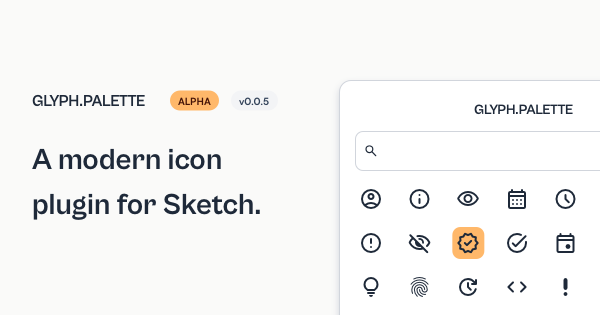
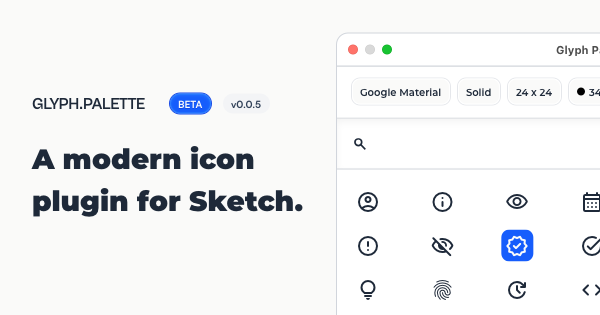
Updating Opengraph assets. Adding button in header. Sorting responsive styles.

diff --git a/src/components/glyph-palette/Features.svelte b/src/components/glyph-palette/Features.svelte
@@ -2,7 +2,9 @@
   import Icon from "./Icon.svelte";
 </script>
 
-<div class="grid w-full grid-cols-1 gap-6 md:w-5/6 md:grid-cols-2 md:gap-20 lg:w-full lg:grid-cols-3">
+<div
+  class="flex w-full flex-col items-center gap-24 md:grid md:w-5/6 md:grid-cols-2 md:gap-20 lg:w-full lg:grid-cols-3"
+>
   <div class="feature">
     <Icon icon="manage-search-rounded" />
     <div class="flex flex-col gap-1">
@@ -34,7 +36,7 @@
   <div class="feature">
     <Icon icon="all-out-outline-rounded" />
     <div class="flex flex-col gap-1">
-      <div class="flex flex-row items-center gap-2">
+      <div class="flex flex-col items-center gap-2 md:flex-row">
         <span class="highlight">soon</span>
         <h4>Add as Symbol.</h4>
       </div>
@@ -44,7 +46,7 @@
   <div class="feature">
     <Icon icon="format-color-fill-rounded" />
     <div class="flex flex-col gap-1">
-      <div class="flex flex-row items-center gap-2">
+      <div class="flex flex-col items-center gap-2 md:flex-row">
         <span class="highlight">soon</span>
         <h4>Custom colors.</h4>
       </div>
@@ -56,7 +58,7 @@
 <style>
   @reference "@styles/glyph-palette.css";
   .feature {
-    @apply flex w-full flex-col gap-6;
+    @apply flex w-80 flex-col items-center gap-6 text-center md:w-full md:items-start md:text-left;
     span {
       @apply flex items-center rounded-full px-2 py-0.5 text-[9px] text-blue-50 uppercase;
     }

diff --git a/src/components/glyph-palette/Header.svelte b/src/components/glyph-palette/Header.svelte
@@ -1,5 +1,8 @@
 <script lang="ts">
   import Badge from "./Badge.svelte";
+  function handleClick() {
+    document.getElementById("email")?.focus();
+  }
 </script>
 
 <div class="bg-bg/90 sticky top-0 z-10 border-b-1 border-stone-100">
@@ -11,12 +14,17 @@
         <Badge label="v1.0.0" />
       </div>
     </div>
-    <nav class="hidden sm:inline">
-      <ul class="flex flex-row gap-6">
-        <li><a href="#roadmap">Roadmap</a></li>
-        <li class="flex items-center gap-1">
+    <nav>
+      <ul class="flex flex-row items-center gap-6">
+        <li class="hidden md:flex"><a href="#roadmap">Roadmap</a></li>
+        <li class="hidden items-center gap-1 md:flex">
           <a href="https://sketchto.day?ref=glyphpalette" target="_blank">Sketchto.day</a>
           <iconify-icon icon="material-symbols:open-in-new" class="size-3"></iconify-icon>
+        </li>
+        <li>
+          <button on:click={handleClick} class="highlight cursor-pointer rounded-lg px-3 py-1.5 hover:bg-blue-700">
+            Try the Beta
+          </button>
         </li>
       </ul>
     </nav>
@@ -26,7 +34,7 @@
 <style>
   @reference "@styles/glyph-palette.css";
   header {
-    @apply py-10;
+    @apply py-8 md:py-10;
     .logo {
       @apply font-cabinet-grotesk text-base font-bold uppercase;
     }

diff --git a/src/components/glyph-palette/Plugin.svelte b/src/components/glyph-palette/Plugin.svelte
@@ -32,7 +32,7 @@
 </script>
 
 <div
-  class="flex h-fit w-full max-w-xl flex-col divide-y-1 divide-gray-300 rounded-xl border border-gray-300 bg-white font-[Montserrat] shadow-lg md:w-lg"
+  class="flex h-fit w-full flex-col divide-y-1 divide-gray-300 rounded-xl border border-gray-300 bg-white font-[Montserrat] shadow-lg md:w-lg"
 >
   <div class="lg relative flex flex-row items-center px-2.5 py-2">
     <ul class="absolute flex flex-row gap-2">
@@ -49,7 +49,7 @@
       <li class="default">24 x 24</li>
       <li class="default flex flex-row items-center gap-2">
         <span class="size-2 rounded-full bg-gray-950"></span>
-        <span>34, 34, 34, 1</span>
+        <span class="hidden md:flex">34, 34, 34, 1</span>
       </li>
     </ul>
     <div class="flex flex-row gap-2">
@@ -146,7 +146,10 @@
   .form {
     @apply flex flex-col gap-4 p-4;
     .label {
-      @apply flex min-w-16 flex-row items-center gap-2;
+      @apply flex flex-row items-center gap-2 md:min-w-16;
+      span {
+        @apply hidden md:flex;
+      }
     }
     .select {
       @apply flex h-10 w-full flex-row items-center justify-between rounded-lg border border-gray-200 bg-stone-50 p-3 text-xs font-semibold;

diff --git a/src/components/glyph-palette/Hero.svelte b/src/components/glyph-palette/Hero.svelte
@@ -3,7 +3,7 @@
   import Plugin from "./Plugin.svelte";
 </script>
 
-<div class="my-12 flex flex-col items-center justify-between gap-6 md:gap-12 lg:flex-row">
+<div class="my-6 flex flex-col items-center justify-between gap-6 md:my-12 md:gap-12 lg:flex-row">
   <div class="flex flex-col gap-16">
     <section class="flex w-full flex-col items-center gap-12 lg:w-2xl lg:items-start">
       <div class="hero flex flex-col gap-6 text-center md:w-2/3 lg:w-full lg:text-left">

diff --git a/src/components/glyph-palette/Roadmap.svelte b/src/components/glyph-palette/Roadmap.svelte
@@ -8,7 +8,7 @@
   <div class="flex flex-col gap-12">
     <div class="flex flex-col items-center gap-6">
       <Icon icon="route-outline" />
-      <div class="flex flex-col items-center gap-6">
+      <div class="flex flex-col gap-6 text-center">
         <h2>Roadmap.</h2>
         <p class="text-xl">Conception, current state, and what the future holds.</p>
       </div>

diff --git a/src/components/glyph-palette/Footer.svelte b/src/components/glyph-palette/Footer.svelte
@@ -58,7 +58,7 @@
       </div>
     </div>
   </section>
-  <div class="flex flex-col gap-8">
+  <div class="flex w-full flex-col items-center gap-8 text-center md:w-auto md:items-start md:text-left">
     <a href="https://workingon.studio?ref=glyphpalette">
       <img src="/glyph-palette/logo-small-grayscale.svg" class="w-8" alt="" />
     </a>
